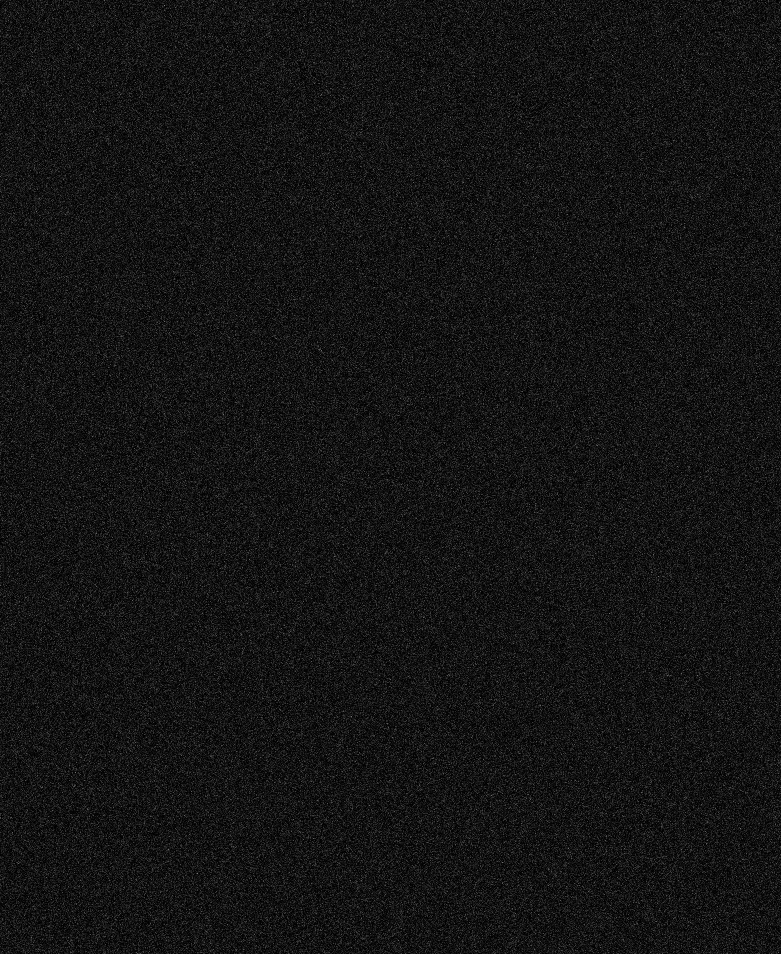
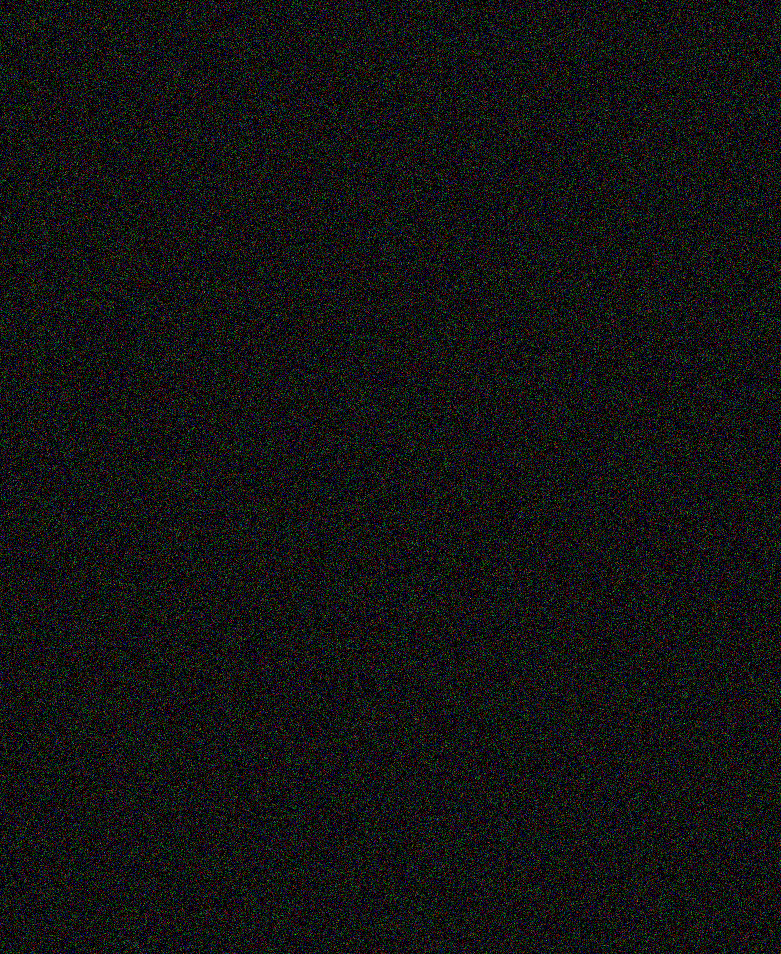
feat: add noise to image

diff --git a/src/main.rs b/src/main.rs
@@ -8,11 +8,29 @@ fn create_gaussian_noise(mean: f64, sd: f64, width: u32, height: u32) -> Vec<u8>
     let mut rng = rand::thread_rng();
     let mut gaussian = normal.sample_iter(&mut rng);
     let mut noise = Vec::<u8>::new();
-    while noise.len() < (width * height) as usize {
-        let val = (gaussian.next().unwrap().abs() * 255.0) as u8;
-        noise.push(val);
+    while noise.len() < (width * height * 4) as usize {
+        for i in (0..3) {
+            let val = (gaussian.next().unwrap() * 255.0) as u8;
+            noise.push(val);
+        }
+        noise.push(255);
     }
     return noise;
+}
+
+fn add_two_images(image1: &[u8], image2: &[u8]) -> Vec<u8> {
+    assert!(image1.len() == image2.len());
+    let mut sum_image = Vec::<u8>::new();
+    for i in 0..image1.len() {
+        if image1[i] > std::u8::MAX - image2[i] {
+            sum_image.push(255);
+        } else if image1[i] < image2[i] {
+            sum_image.push(0);
+        } else {
+            sum_image.push(image1[i] + image2[i]);
+        }
+    }
+    return sum_image;
 }
 
 fn main() {
@@ -22,13 +40,23 @@ fn main() {
     let img = ImageReader::open(file_path).expect("valid image file to exist");
     let img = img.decode().expect("decode image");
     println!("{:?} {} {} ", img.color(), img.width(), img.height());
-    let noise = create_gaussian_noise(0.0, 0.1, img.width(), img.height());
+    let noise = create_gaussian_noise(0.0, 0.2, img.width(), img.height());
     let _ = image::save_buffer(
         "./noise.png",
         &noise[0..],
         img.width(),
         img.height(),
-        image::ColorType::L8,
+        image::ColorType::Rgba8,
+    );
+    // Apply noise
+    let sum_image = add_two_images(img.as_bytes(), &noise);
+    println!("{:?}", &sum_image[0..5]);
+    let _ = image::save_buffer(
+        "./noisy_image.png",
+        &sum_image[0..],
+        img.width(),
+        img.height(),
+        image::ColorType::Rgba8,
     );
     println!("{} {:?}", img.as_bytes().len(), &img.as_bytes()[0..5]);
     println!("{} {:?}", noise.len(), &noise[0..5]);
